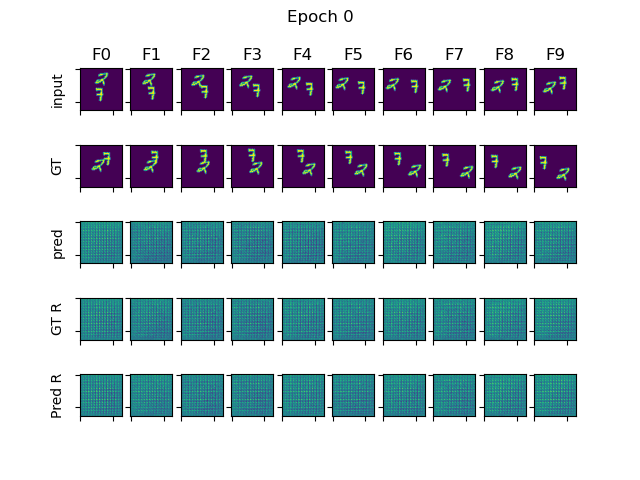
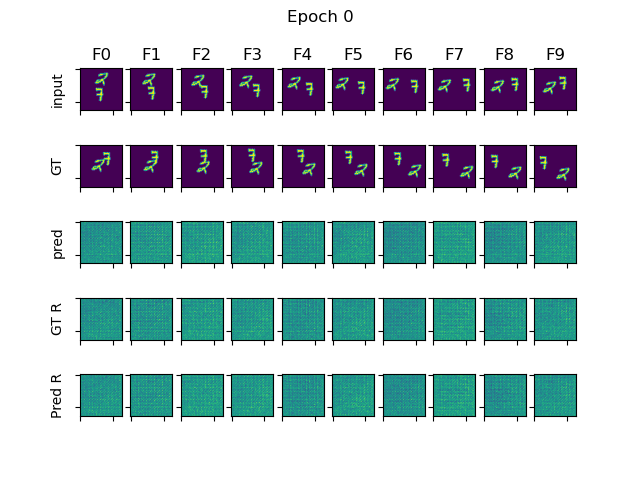
cocycle updates

Changed region(s): [[0.125, 0.7812, 0.9062, 0.875], [0.125, 0.625, 0.9062, 0.7188], [0.125, 0.4688, 0.9062, 0.5625]]

diff --git a/gan/models/cocycle/simvp/model.py b/gan/models/cocycle/simvp/model.py
@@ -39,7 +39,7 @@ class Decoder(nn.Module):
         super(Decoder, self).__init__()
         strides = stride_generator(N_S, reverse=True)
         self.dec = nn.Sequential(
-            ConvSC(C_hid * 2 + hid_T + 2, hid_T, stride=strides[0], transpose=True),
+            ConvSC(C_hid * 2 + hid_T , hid_T, stride=strides[0], transpose=True),
             ConvSC(hid_T, hid_T, stride=strides[1], transpose=True),
             ConvSC(hid_T, C_hid * 1, stride=strides[2], transpose=True),
             *[ConvSC(C_hid, C_hid, stride=s, transpose=True) for s in strides[3:]],
@@ -100,13 +100,13 @@ class SimVP(nn.Module):
         embedding = self.time_embedding(labels)
         embedding = embedding.reshape(B, T, 1, H, W)
 
-        condition = t.tensor(future, device=x.device).int()
-        conditions = condition.repeat(B, 1)
-        conditions = self.conditional_embedding(conditions)
-        conditions = conditions.view(B, 1, 1, H, W)
-        conditions = conditions.repeat(1, T, 1, 1, 1)
+        # condition = t.tensor(future, device=x.device).int()
+        # conditions = condition.repeat(B, 1)
+        # conditions = self.conditional_embedding(conditions)
+        # conditions = conditions.view(B, 1, 1, H, W)
+        # conditions = conditions.repeat(1, T, 1, 1, 1)
 
-        return t.cat([x, embedding, conditions], dim=2)
+        return x + embedding
 
     def pos_emb(self, x, T: int):
         B, C, H, W = x.shape
@@ -165,6 +165,7 @@ class SimVP(nn.Module):
 
         outs = []
         embed = self.enc.skip(x_raw[:, -1 if future else 0, ...])
+        embed = self.pos_emb(embed, T if future else 0)
         if future:
             for i in range(T):
                 out = self.dec(hid[:, i, :, :, :], embed, skip_all)
